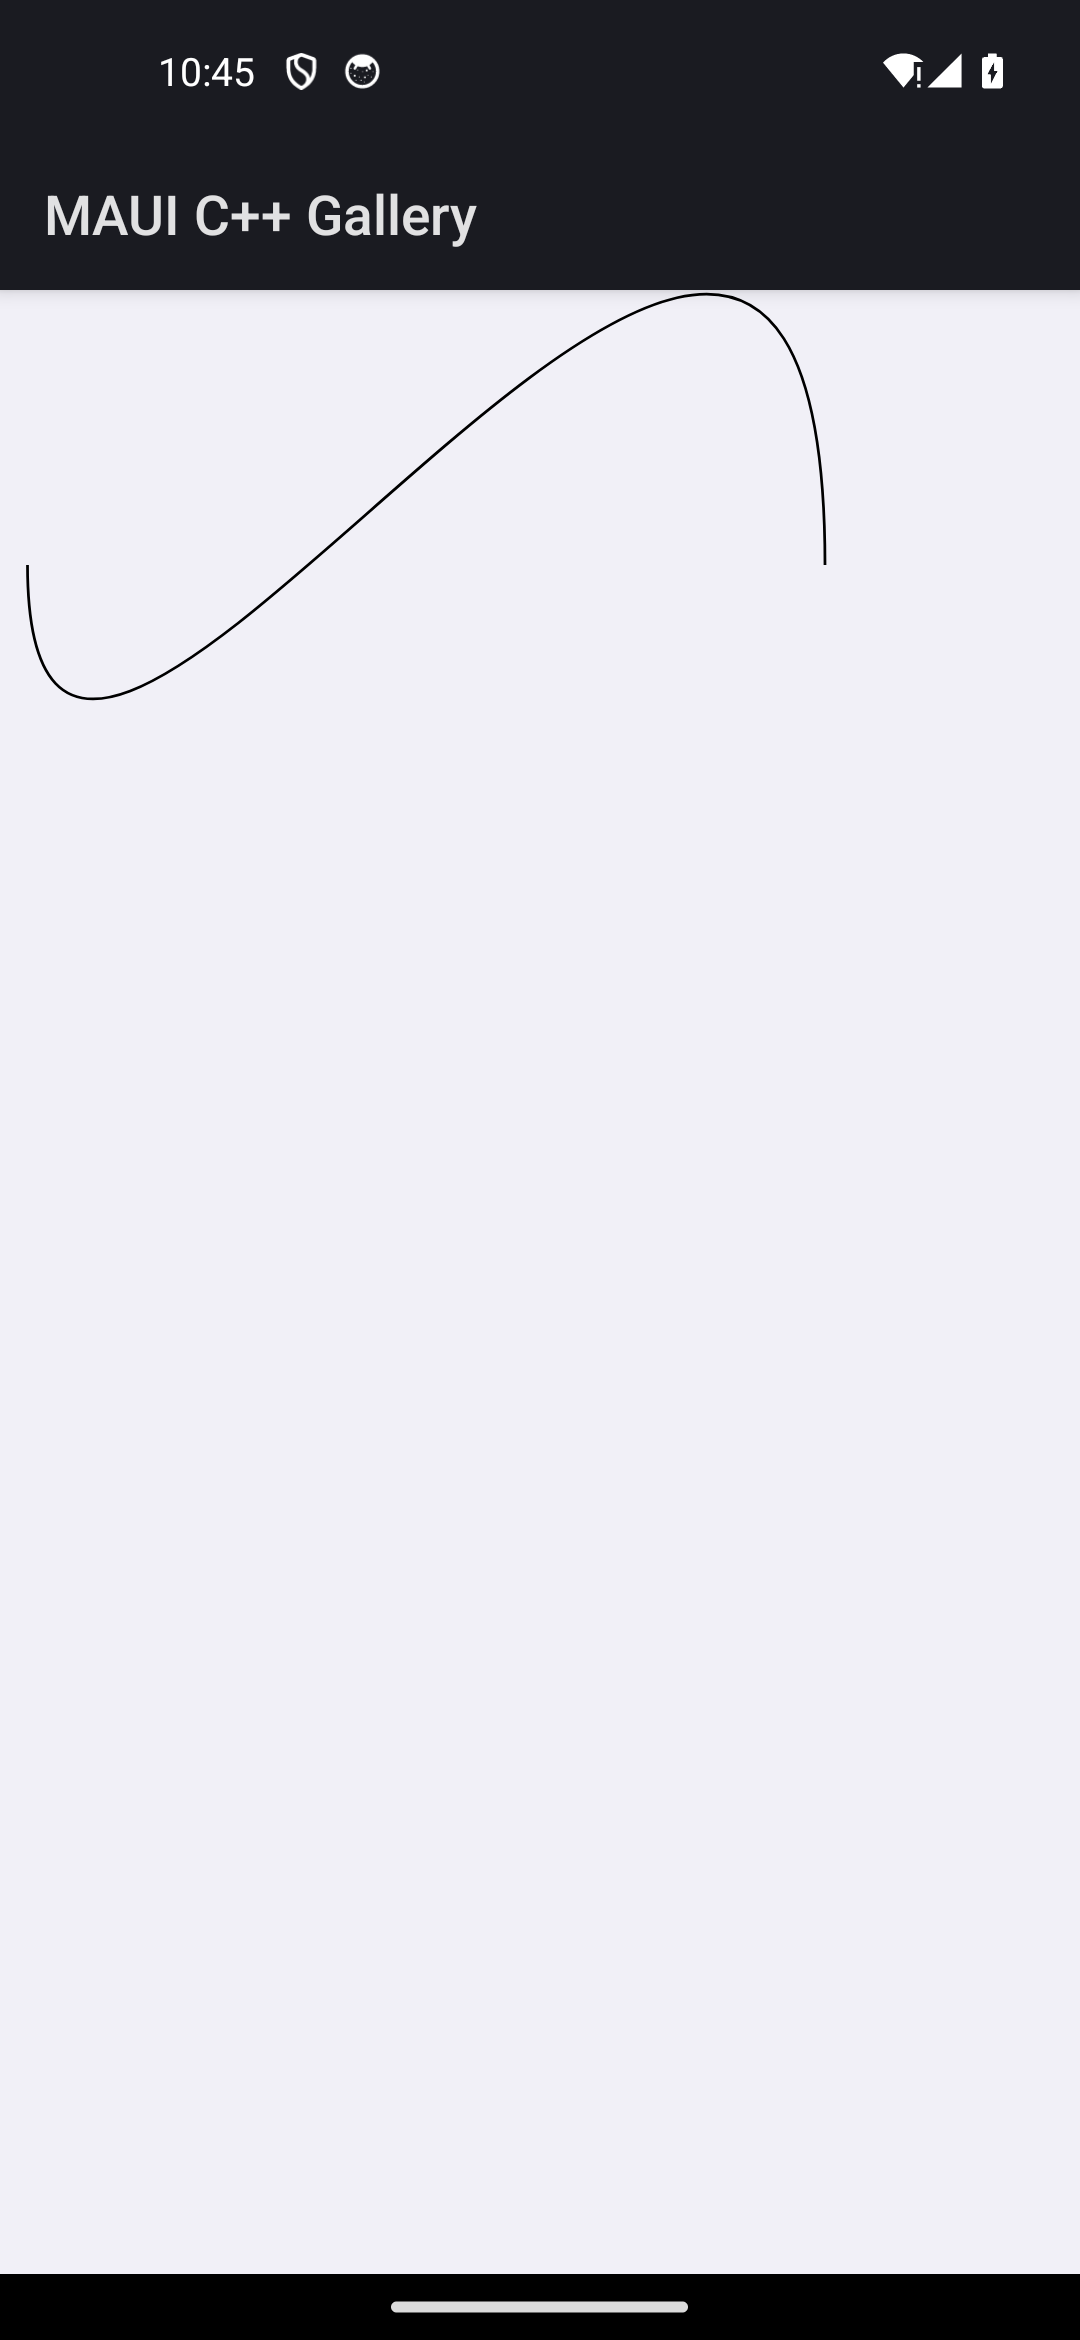
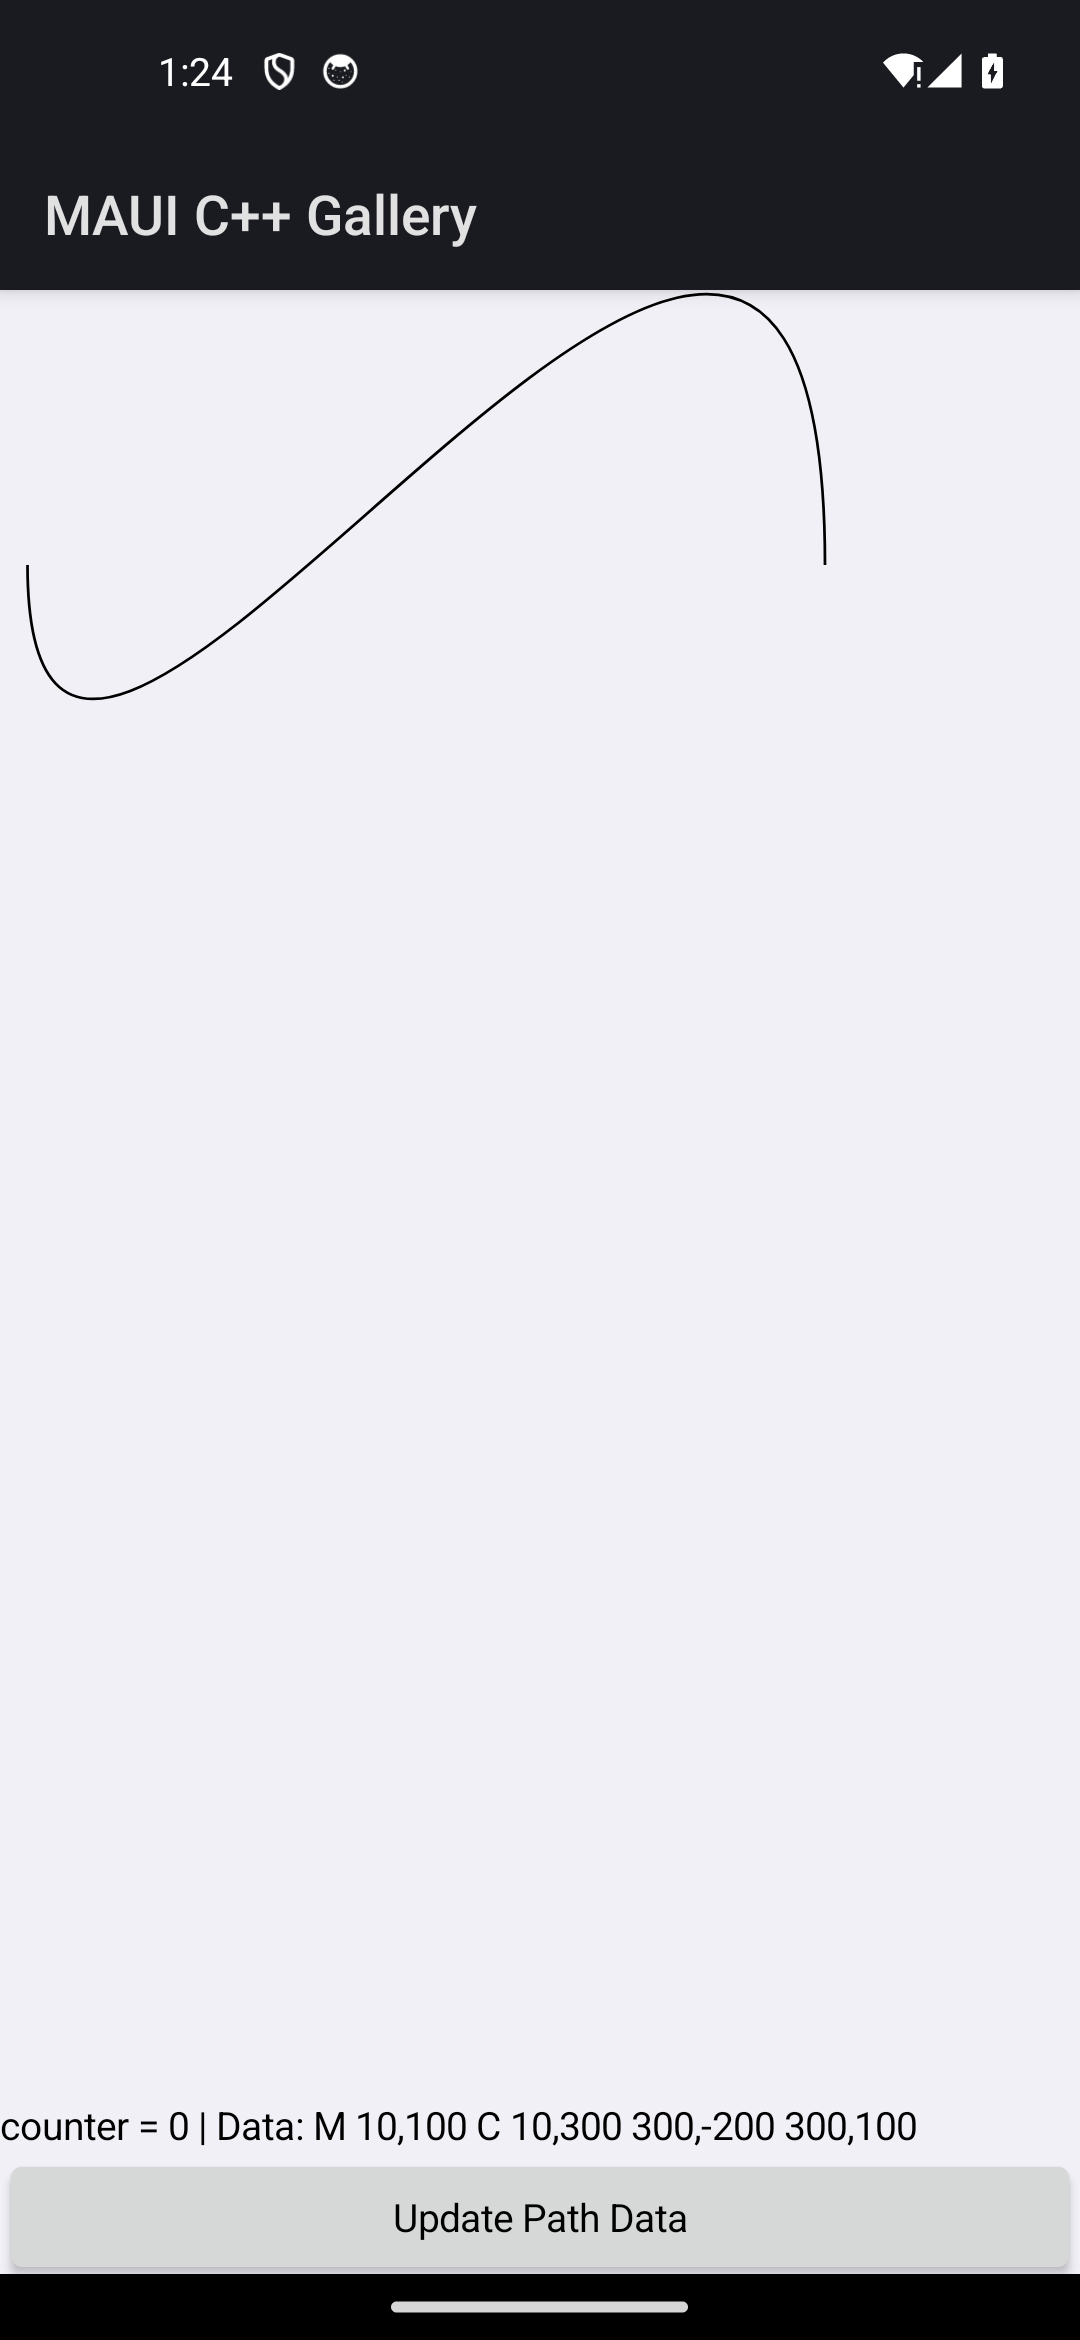
fix(android): update_path_data — content area excludes status/action bar; readout own row (wave 23)
Two fixes, one render:

1) app_host display_size now subtracts the system chrome the content view never
   receives — the status bar (android status_bar_height dimen) plus the Activity's
   title/action bar (the actionBarSize theme attribute). MauiHostActivity extends
   the plain android.app.Activity, whose default theme paints a status bar and the
   'MAUI C++ Gallery' title bar above setContentView's content frame, so the content
   area is shorter than the raw DisplayMetrics height. drive_layout was laying the
   page out over the FULL display, so a page whose bottom row is anchored to the
   content bottom (update_path_data's *-over-Auto Grid) placed that row at
   displayHeight — BELOW the visible content frame — and the 'Update Path Data'
   button + status readout never appeared. Clamped so a bad chrome read can't
   zero/invert the height. Systemic: every bottom-anchored page benefits. JNI
   discipline preserved (local_ref RAII, ExceptionCheck/Clear after every call).

2) update_path_data page: the port-added diagnostic readout shared the button's Auto
   row, relying on the button being transparent (true on iOS). On Android the opaque
   Material button background hid it. Readout gets its own Auto row (*/Auto/Auto).

Recaptured update_path_data.png: path + readout + button all render. filter_selection
recaptured (no regression — list is a scrolling * row). Headless grid tests green.

Changed region(s): [[0.0, 0.9047, 1.0, 0.9983], [0.2444, 0.0, 0.3361, 0.0624]]

diff --git a/port/cpp/src/platform/android/apphost/app_host.cpp b/port/cpp/src/platform/android/apphost/app_host.cpp
@@ -243,11 +243,151 @@ namespace
         return env->NewLocalRef(native);
     }
 
+    // The system-chrome height (in PIXELS) the Activity's content view does NOT get: the status bar plus
+    // the Activity's title/action bar. MauiHostActivity extends the plain android.app.Activity, whose
+    // default theme paints a status bar at the top and a title bar (the "MAUI C++ Gallery" toolbar in the
+    // captures) above setContentView's content frame — so the content area is SHORTER than the raw
+    // DisplayMetrics height by these two. display_size lays the page out over the device display, so
+    // without this subtraction a page whose bottom row is anchored to the content bottom (a Grid with a
+    // `*` row over an `Auto` row — update_path_data) places that row at displayHeight, BELOW the visible
+    // content frame, and it never appears. Both heights are read from the framework: the status bar from
+    // the android `status_bar_height` dimen resource, the action bar from the theme's actionBarSize
+    // attribute. Returns 0 on any failure (so the page still mounts, just over the full display as before).
+    [[nodiscard]] jint content_chrome_height_px(JNIEnv* env, jobject activity)
+    {
+        if (env == nullptr || activity == nullptr)
+        {
+            return 0;
+        }
+        const auto clear = [&]() {
+            if (env->ExceptionCheck() == JNI_TRUE)
+            {
+                env->ExceptionClear();
+            }
+        };
+        jint total = 0;
+        const maui::platform::android::local_ref<jclass> activity_class{env, env->GetObjectClass(activity)};
+        if (!activity_class)
+        {
+            clear();
+            return 0;
+        }
+        jmethodID get_resources =
+            env->GetMethodID(activity_class.get(), "getResources", "()Landroid/content/res/Resources;");
+        if (get_resources == nullptr)
+        {
+            clear();
+            return 0;
+        }
+        const maui::platform::android::local_ref<jobject> resources{env,
+                                                                    env->CallObjectMethod(activity, get_resources)};
+        if (env->ExceptionCheck() == JNI_TRUE || !resources)
+        {
+            clear();
+            return 0;
+        }
+        const maui::platform::android::local_ref<jclass> resources_class{env, env->GetObjectClass(resources.get())};
+
+        // --- status bar: getDimensionPixelSize(getIdentifier("status_bar_height", "dimen", "android")) ---
+        jmethodID get_identifier = env->GetMethodID(resources_class.get(), "getIdentifier",
+                                                    "(Ljava/lang/String;Ljava/lang/String;Ljava/lang/String;)I");
+        jmethodID get_dimension_pixel_size = env->GetMethodID(resources_class.get(), "getDimensionPixelSize", "(I)I");
+        if (get_identifier != nullptr && get_dimension_pixel_size != nullptr)
+        {
+            const maui::platform::android::local_ref<jstring> name{env, env->NewStringUTF("status_bar_height")};
+            const maui::platform::android::local_ref<jstring> deftype{env, env->NewStringUTF("dimen")};
+            const maui::platform::android::local_ref<jstring> defpkg{env, env->NewStringUTF("android")};
+            const jint res_id =
+                env->CallIntMethod(resources.get(), get_identifier, name.get(), deftype.get(), defpkg.get());
+            if (env->ExceptionCheck() == JNI_TRUE)
+            {
+                clear();
+            }
+            else if (res_id > 0)
+            {
+                const jint status_px = env->CallIntMethod(resources.get(), get_dimension_pixel_size, res_id);
+                if (env->ExceptionCheck() == JNI_TRUE)
+                {
+                    clear();
+                }
+                else if (status_px > 0)
+                {
+                    total += status_px;
+                }
+            }
+        }
+
+        // --- action/title bar: getTheme().resolveAttribute(android.R.attr.actionBarSize, tv, true), then
+        //     TypedValue.complexToDimensionPixelSize(tv.data, getDisplayMetrics()) ---
+        jmethodID get_theme =
+            env->GetMethodID(activity_class.get(), "getTheme", "()Landroid/content/res/Resources$Theme;");
+        const maui::platform::android::local_ref<jclass> typed_value_class{env,
+                                                                           env->FindClass("android/util/TypedValue")};
+        if (get_theme != nullptr && typed_value_class)
+        {
+            const maui::platform::android::local_ref<jobject> theme{env, env->CallObjectMethod(activity, get_theme)};
+            jmethodID tv_ctor = env->GetMethodID(typed_value_class.get(), "<init>", "()V");
+            jmethodID resolve = nullptr;
+            if (theme)
+            {
+                const maui::platform::android::local_ref<jclass> theme_class{env, env->GetObjectClass(theme.get())};
+                resolve = env->GetMethodID(theme_class.get(), "resolveAttribute", "(ILandroid/util/TypedValue;Z)Z");
+            }
+            jmethodID get_metrics_m =
+                env->GetMethodID(resources_class.get(), "getDisplayMetrics", "()Landroid/util/DisplayMetrics;");
+            jmethodID complex_to_px = env->GetStaticMethodID(typed_value_class.get(), "complexToDimensionPixelSize",
+                                                             "(ILandroid/util/DisplayMetrics;)I");
+            jfieldID data_field = env->GetFieldID(typed_value_class.get(), "data", "I");
+            constexpr jint k_attr_action_bar_size = 0x01010057; // android.R.attr.actionBarSize
+            if (theme && tv_ctor != nullptr && resolve != nullptr && get_metrics_m != nullptr &&
+                complex_to_px != nullptr && data_field != nullptr)
+            {
+                const maui::platform::android::local_ref<jobject> tv{env,
+                                                                     env->NewObject(typed_value_class.get(), tv_ctor)};
+                if (tv)
+                {
+                    const jboolean ok =
+                        env->CallBooleanMethod(theme.get(), resolve, k_attr_action_bar_size, tv.get(), JNI_TRUE);
+                    if (env->ExceptionCheck() == JNI_TRUE)
+                    {
+                        clear();
+                    }
+                    else if (ok == JNI_TRUE)
+                    {
+                        const jint data = env->GetIntField(tv.get(), data_field);
+                        const maui::platform::android::local_ref<jobject> dm{
+                            env, env->CallObjectMethod(resources.get(), get_metrics_m)};
+                        const bool dm_failed = env->ExceptionCheck() == JNI_TRUE;
+                        if (dm_failed)
+                        {
+                            clear();
+                        }
+                        if (!dm_failed && dm)
+                        {
+                            const jint bar_px =
+                                env->CallStaticIntMethod(typed_value_class.get(), complex_to_px, data, dm.get());
+                            if (env->ExceptionCheck() == JNI_TRUE)
+                            {
+                                clear();
+                            }
+                            else if (bar_px > 0)
+                            {
+                                total += bar_px;
+                            }
+                        }
+                    }
+                }
+            }
+        }
+        return total;
+    }
+
     // The Activity's display metrics (widthPixels x heightPixels) via JNI:
     // activity.getResources().getDisplayMetrics().{widthPixels,heightPixels}, divided by the metrics
-    // `density` to yield framework POINTS. Falls back to a portrait phone viewport (the headless/ios
-    // default) when any step fails, so the mount still settles. The Activity is reached through
-    // app_context() — the JNI export below pinned the Activity as the process context (it IS-A Context).
+    // `density` to yield framework POINTS. The height is reduced by the system chrome the content view does
+    // not receive (status bar + action/title bar — see content_chrome_height_px). Falls back to a portrait
+    // phone viewport (the headless/ios default) when any step fails, so the mount still settles. The
+    // Activity is reached through app_context() — the JNI export below pinned it as the process context.
     size2 display_size(JNIEnv* env)
     {
         constexpr size2 fallback{402.0, 874.0}; // the ios/headless gallery default (host_run.cpp)
@@ -315,7 +455,16 @@ namespace
         {
             return fallback;
         }
-        return {static_cast<double>(width_px) / density, static_cast<double>(height_px) / density};
+        // Reduce the height by the system chrome the content view never receives (status bar + title/action
+        // bar). Without this, a bottom-anchored row (a `*`-over-`Auto` Grid like update_path_data) lands
+        // below the visible content frame. Clamp so a bogus chrome read can never zero/invert the height.
+        const jint chrome_px = content_chrome_height_px(env, activity);
+        jint content_height_px = height_px;
+        if (chrome_px > 0 && chrome_px < height_px)
+        {
+            content_height_px -= chrome_px;
+        }
+        return {static_cast<double>(width_px) / density, static_cast<double>(content_height_px) / density};
     }
 } // namespace
 

diff --git a/port/cpp/examples/gallery/pages/update_path_data_page.hpp b/port/cpp/examples/gallery/pages/update_path_data_page.hpp
@@ -58,9 +58,15 @@ namespace maui::samples
         {
             page_.set_title("Update Path Data Gallery");
 
-            // The 2-row grid (RowSpacing 0): * (the path) / Auto (the button).
+            // The grid (RowSpacing 0): * (the path) / Auto (the readout) / Auto (the button). The C# XAML is
+            // just *(path) / Auto(button); the port adds a diagnostic readout Label (header note). It used to
+            // share the button's Auto row, relying on the button being transparent so the label showed through
+            // (true on iOS — native UIButton has no opaque fill). On Android the native android.widget.Button
+            // carries an OPAQUE Material background that paints over the whole cell, hiding the overlapped
+            // readout. Give the readout its own Auto row so the two never collide on any backend.
             outer_.set_row_spacing(0);
             outer_.add_row_definition(maui::core::grid_length::star());
+            outer_.add_row_definition(maui::core::grid_length::automatic());
             outer_.add_row_definition(maui::core::grid_length::automatic());
 
             // Row 0 — the black-stroked cubic Bézier path (initial Data, counter 0).
@@ -69,7 +75,12 @@ namespace maui::samples
             outer_.add(path_);
             outer_.set_row(path_, 0);
 
-            // Row 1 — the "Update Path Data" button: each tap bumps the counter and replaces the geometry.
+            // Row 1 — a status readout (port addition — surfaces the current counter / Data; see header note).
+            outer_.add(readout_);
+            outer_.set_row(readout_, 1);
+            update_readout();
+
+            // Row 2 — the "Update Path Data" button: each tap bumps the counter and replaces the geometry.
             update_button_.set_text("Update Path Data");
             update_button_.clicked.connect([this]() {
                 counter_ += 10; // C# `_counter += 10`
@@ -77,12 +88,7 @@ namespace maui::samples
                 update_readout();
             });
             outer_.add(update_button_);
-            outer_.set_row(update_button_, 1);
-
-            // A status readout (port addition — surfaces the current counter / Data; see header note).
-            outer_.add(readout_);
-            outer_.set_row(readout_, 1);
-            update_readout();
+            outer_.set_row(update_button_, 2);
 
             page_.set_content(outer_);
         }
